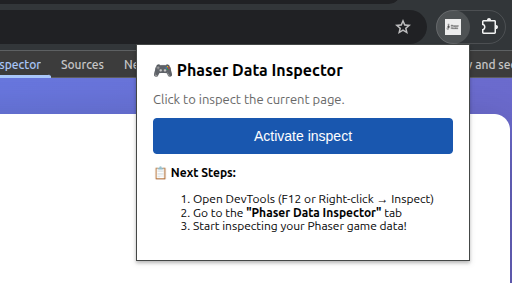
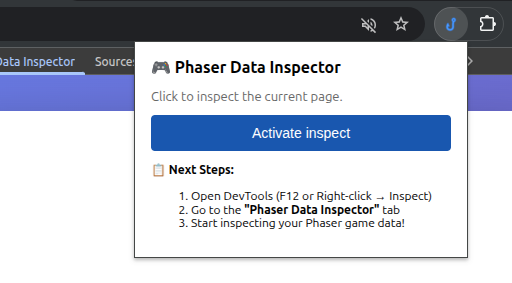
fix to firefox

Changed region(s): [[0.0, 0.0, 1.0, 1.0], [0.3438, 0.6784, 0.8438, 0.8198], [0.6875, 0.0565, 0.8125, 0.1131]]

diff --git a/packages/phaser-data-inspector/vite.config.ts b/packages/phaser-data-inspector/vite.config.ts
@@ -3,9 +3,13 @@ import { resolve } from 'path';
 import { copyFileSync, mkdirSync, existsSync, readdirSync, statSync, unlinkSync, rmdirSync, readFileSync, writeFileSync } from 'fs';
 import react from '@vitejs/plugin-react';
 
+// Check if building for Firefox (via environment variable)
+const isFirefox = process.env.BUILD_TARGET === 'firefox';
+const outDir = isFirefox ? 'dist-firefox' : 'dist';
+
 export default defineConfig({
   build: {
-    outDir: 'dist',
+    outDir,
     emptyOutDir: true,
       rollupOptions: {
       input: {
@@ -117,7 +121,7 @@ export default defineConfig({
       },
       writeBundle() {
         const publicDir = resolve(__dirname, 'public');
-        const distDir = resolve(__dirname, 'dist');
+        const distDir = resolve(__dirname, outDir);
         const distSrcDir = resolve(distDir, 'src');
         
         if (!existsSync(distDir)) {
@@ -132,6 +136,11 @@ export default defineConfig({
           
           const entries = readdirSync(src);
           entries.forEach((entry) => {
+            // Skip .gitignore and other hidden files
+            if (entry.startsWith('.') && entry !== '.') {
+              return;
+            }
+            
             const srcPath = resolve(src, entry);
             const destPath = resolve(dest, entry);
             
@@ -146,6 +155,37 @@ export default defineConfig({
         if (existsSync(publicDir)) {
           copyRecursive(publicDir, distDir);
         }
+        
+        // Copy appropriate manifest (Firefox or Chrome)
+        // Override the manifest.json that was copied from public/ with the correct one
+        const manifestSource = isFirefox 
+          ? resolve(__dirname, 'public', 'manifest-firefox.json')
+          : resolve(__dirname, 'public', 'manifest.json');
+        const distManifestPath = resolve(distDir, 'manifest.json');
+        if (existsSync(manifestSource)) {
+          copyFileSync(manifestSource, distManifestPath);
+        }
+        
+        // Remove manifest-firefox.json from dist if it was copied (not needed)
+        if (isFirefox) {
+          const firefoxManifestInDist = resolve(distDir, 'manifest-firefox.json');
+          if (existsSync(firefoxManifestInDist)) {
+            unlinkSync(firefoxManifestInDist);
+          }
+        }
+        
+        // Remove .gitignore and other unwanted files from dist
+        const unwantedFiles = ['.gitignore', 'manifest-firefox.json'];
+        unwantedFiles.forEach((file) => {
+          const filePath = resolve(distDir, file);
+          if (existsSync(filePath)) {
+            try {
+              unlinkSync(filePath);
+            } catch (e) {
+              // Ignore errors
+            }
+          }
+        });
         
         // Move HTML files from dist/src/ to dist/ root
         if (existsSync(distSrcDir)) {

diff --git a/packages/phaser-data-inspector/src/components/inspector.tsx b/packages/phaser-data-inspector/src/components/inspector.tsx
@@ -145,9 +145,42 @@ export const Inspector = (): ReactElement => {
       }
     } else {
       // For popup, get current tab ID
-      chrome.tabs.query({ active: true, currentWindow: true }, (tabs) => {
-        if (tabs[0]?.id) {
-          const tabId = tabs[0].id;
+      // Firefox may not have chrome.tabs available in popup, so we use a helper function
+      const getCurrentTabId = (callback: (tabId: number | null) => void): void => {
+        // Try chrome.tabs first (Chrome)
+        if (chrome.tabs && chrome.tabs.query) {
+          chrome.tabs.query({ active: true, currentWindow: true }, (tabs) => {
+            const tabId = tabs[0]?.id;
+            callback(typeof tabId === 'number' ? tabId : null);
+          });
+          return;
+        }
+        
+        // Try browser.tabs (Firefox standard)
+        // eslint-disable-next-line @typescript-eslint/no-explicit-any
+        const browser = (globalThis as any).browser || (globalThis as any).chrome;
+        if (browser?.tabs?.query) {
+          browser.tabs.query({ active: true, currentWindow: true }, (tabs: chrome.tabs.Tab[]) => {
+            const tabId = tabs[0]?.id;
+            callback(typeof tabId === 'number' ? tabId : null);
+          });
+          return;
+        }
+        
+        // Fallback: ask background script to get tabId
+        chrome.runtime.sendMessage({ type: 'GET_CURRENT_TAB_ID' }, (response: { tabId?: number | null }) => {
+          if (chrome.runtime.lastError) {
+            console.warn('Could not get tabId:', chrome.runtime.lastError);
+            callback(null);
+          } else {
+            const tabId = response?.tabId;
+            callback(tabId ? tabId : null);
+          }
+        });
+      };
+      
+      getCurrentTabId((tabId) => {
+        if (tabId) {
           // Send tabId to background so it can associate this port with the tab
           newPort.postMessage({ type: 'REGISTER_TAB_ID', tabId });
           

diff --git a/packages/phaser-data-inspector/src/action-popup.ts b/packages/phaser-data-inspector/src/action-popup.ts
@@ -8,7 +8,26 @@ btn.addEventListener('click', async () => {
   statusEl.className = '';
 
   try {
-    const [tab] = await chrome.tabs.query({ active: true, currentWindow: true });
+    // Helper to get current tab (works in both Chrome and Firefox)
+    const getCurrentTab = async (): Promise<chrome.tabs.Tab> => {
+      // Try chrome.tabs first (Chrome)
+      if (chrome.tabs && chrome.tabs.query) {
+        const tabs = await chrome.tabs.query({ active: true, currentWindow: true });
+        if (tabs[0]) return tabs[0];
+      }
+      
+      // Try browser.tabs (Firefox standard)
+      // eslint-disable-next-line @typescript-eslint/no-explicit-any
+      const browser = (globalThis as any).browser || (globalThis as any).chrome;
+      if (browser?.tabs?.query) {
+        const tabs = await browser.tabs.query({ active: true, currentWindow: true });
+        if (tabs[0]) return tabs[0];
+      }
+      
+      throw new Error('Could not access tabs API');
+    };
+    
+    const tab = await getCurrentTab();
     
     if (!tab?.id) {
       throw new Error('No tab found');

diff --git a/packages/phaser-data-inspector/src/background.ts b/packages/phaser-data-inspector/src/background.ts
@@ -63,6 +63,18 @@ chrome.runtime.onMessage.addListener((message, sender, sendResponse) => {
     return true;
   }
   
+  // Get current tab ID (fallback for Firefox popup)
+  if (message?.type === 'GET_CURRENT_TAB_ID') {
+    chrome.tabs.query({ active: true, currentWindow: true }, (tabs) => {
+      if (tabs[0]?.id) {
+        sendResponse({ tabId: tabs[0].id });
+      } else {
+        sendResponse({ tabId: null });
+      }
+    });
+    return true; // Keep channel open for async response
+  }
+  
   return false;
 });
 
